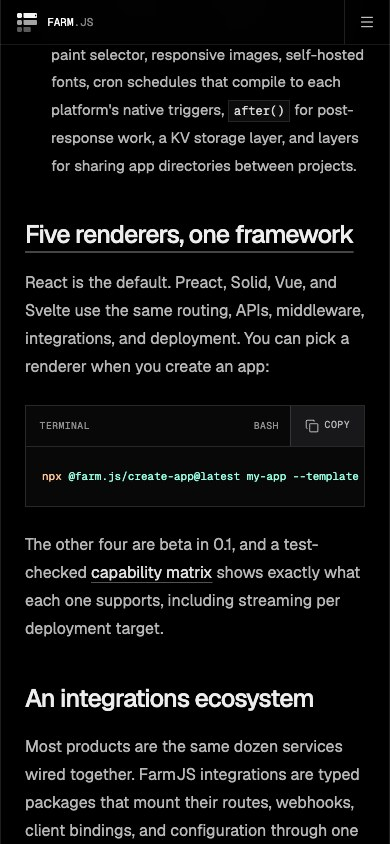
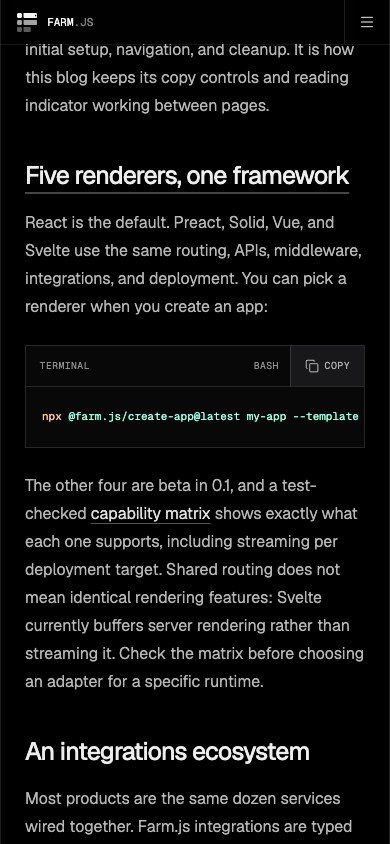
docs(blog): clarify launch guidance and lighten typography

Changed region(s): [[0.0615, 0.0308, 0.9538, 0.5237], [0.0615, 0.5237, 0.9231, 1.0]]

diff --git a/tests/e2e-production-sites/docs.production.spec.ts b/tests/e2e-production-sites/docs.production.spec.ts
@@ -85,7 +85,7 @@ test("blog connects the index, article, contents, and Markdown mirror", async ({
   await page.locator(".blog-featured").click();
   await expect(page).toHaveURL(/\/blog\/farm-0-1$/);
   await expect(page.getByRole("heading", { level: 1 })).toHaveCount(1);
-  await expect(page.getByRole("heading", { level: 1 })).toContainText("FarmJS v0.1.0");
+  await expect(page.getByRole("heading", { level: 1 })).toContainText("Farm.js v0.1.0");
   await expect(page.getByRole("heading", { level: 1 })).toHaveCSS("font-size", "36px");
   await expect(page.locator(".blog-post-heading h1 br")).toHaveCount(0);
   await expect(page.locator(".blog-post-heading h1")).toHaveCSS("text-wrap", "balance");
@@ -143,15 +143,64 @@ test("blog connects the index, article, contents, and Markdown mirror", async ({
   await expect(page.getByText("This post is a", { exact: false })).toHaveCount(0);
   const markdown = await page.request.get("/blog/farm-0-1.md");
   expect(markdown.ok()).toBe(true);
-  expect(await markdown.text()).toContain("# FarmJS v0.1.0: Stable, Integrated, and Agent-Native");
+  expect(await markdown.text()).toContain("# Farm.js v0.1.0: Stable, Integrated, and Agent-Native");
   expect(await markdown.text()).toContain("## Built with Farm: Viby");
   await page.goto("/blog/farm-0-1.md");
   await expect(page).toHaveURL(/\/blog\/farm-0-1\.md$/);
-  await expect(page.locator("body")).toContainText("# FarmJS v0.1.0");
+  await expect(page.locator("body")).toContainText("# Farm.js v0.1.0");
   await page.goBack();
   await page.getByRole("link", { name: "All posts" }).click();
   await expect(page).toHaveURL(/\/blog$/);
   expect(browserErrors).toEqual([]);
+});
+
+test("blog uses Farm.js branding, lighter reading weights, and complete launch guidance", async ({
+  page,
+}) => {
+  await page.goto("/blog");
+  await expect(page.locator(".blog-featured h3")).toContainText("Farm.js v0.1.0");
+  await expect(page.locator("body")).not.toContainText("FarmJS");
+  await page.locator(".blog-read-link").click();
+  await expect(page).toHaveTitle("Farm.js v0.1.0: Stable, Integrated, and Agent-Native");
+  await expect(page.locator("body")).not.toContainText("FarmJS");
+  const prose = page.locator(".blog-prose");
+  await expect(prose).toContainText("Node.js 22.13 or newer");
+  await expect(prose).toContainText(
+    "Browser references require the experimental server-function transform",
+  );
+  await expect(prose).toContainText("It does not have to live under Farming Labs.");
+  await expect(prose).toContainText("farm upgrade --latest --dry-run");
+  await expect(prose).toContainText(
+    "removes its UI, launcher, and inspection endpoints from production output",
+  );
+  for (const width of [1440, 390]) {
+    await page.setViewportSize({ width, height: 1000 });
+    await expect(prose.locator("p").filter({ hasText: /^Farm\.js 0\.1 is out/ })).toHaveCSS(
+      "font-weight",
+      "350",
+    );
+    await expect(prose.locator("p").filter({ hasText: /^Patch releases/ })).toHaveCSS(
+      "font-weight",
+      "350",
+    );
+    await expect(prose.locator("li").first()).toHaveCSS("font-weight", "350");
+    await expect(prose.locator("h2").first()).toHaveCSS("font-weight", "450");
+    await expect(prose.locator("strong").first()).toHaveCSS("font-weight", "500");
+    await expect(prose.locator("pre").first()).toHaveCSS("font-weight", "400");
+    await expect(prose).toHaveCSS("font-size", width === 1440 ? "16px" : "15px");
+  }
+  for (const path of ["/blog.md", "/blog/farm-0-1.md"]) {
+    const response = await page.request.get(path);
+    expect(response.ok()).toBe(true);
+    const markdown = await response.text();
+    expect(markdown).toContain("Farm.js v0.1.0");
+    expect(markdown).not.toContain("FarmJS");
+  }
+  const source = await readFile("docs/src/app/blog/farm-0-1/page.md", "utf8");
+  const guides = new Set(
+    [...source.matchAll(/https:\/\/farmjs\.dev(\/docs\/[^)#\s]+)/g)].map((match) => match[1]),
+  );
+  for (const path of guides) await access(`docs/src/app${path}/page.md`);
 });
 
 test("blog enhancements survive client navigation, re-entry, and back/forward without reloads", async ({
@@ -392,6 +441,7 @@ test("article sidebar tracks native navigation, reading position, pointer, and k
 }) => {
   await page.emulateMedia({ reducedMotion: "reduce" });
   await page.goto("/blog/farm-0-1");
+  await expect(page.locator("html")).toHaveCSS("scroll-behavior", "auto");
   const nav = page.locator(".blog-contents-links").first();
   const first = nav.getByRole("link", { name: "What stable means", exact: true });
   const integrations = nav.getByRole("link", { name: "Integrations", exact: true });

diff --git a/docs/src/app/blog/blog.css b/docs/src/app/blog/blog.css
@@ -654,6 +654,7 @@
 .blog-prose {
   color: var(--blog-copy);
   font-size: 16px;
+  font-weight: 350;
   line-height: 1.85;
   overflow-wrap: break-word;
 }
@@ -674,11 +675,14 @@
 .blog-prose pre {
   margin: 0 0 24px;
 }
+.blog-prose p {
+  font-weight: inherit;
+}
 .blog-prose h2 {
   color: #ededed;
   margin: 52px 0 18px;
   font-size: 27px;
-  font-weight: 500;
+  font-weight: 450;
   line-height: 1.25;
   letter-spacing: -0.035em;
 }
@@ -686,6 +690,7 @@
   color: #ededed;
   margin: 32px 0 14px;
   font-size: 20px;
+  font-weight: 450;
   line-height: 1.35;
   letter-spacing: -0.02em;
 }
@@ -710,7 +715,7 @@
 }
 .blog-prose strong {
   color: #e0e0e0;
-  font-weight: 550;
+  font-weight: 500;
 }
 .blog-prose a {
   color: #e0e0e0;
@@ -739,6 +744,7 @@
   color: #d8d8d8;
   font-family: var(--font-geist-mono), monospace;
   font-size: 12px;
+  font-weight: 400;
   line-height: 1.8;
 }
 .blog-code-block {
@@ -1058,6 +1064,10 @@
   }
 }
 @media (prefers-reduced-motion: reduce) {
+  /* Fragment navigation scrolls the document, not the article container. */
+  html:has(.farm-blog) {
+    scroll-behavior: auto !important;
+  }
   .farm-blog *,
   .farm-blog *::before,
   .farm-blog *::after {

diff --git a/docs/src/app/blog/farm-0-1/layout.tsx b/docs/src/app/blog/farm-0-1/layout.tsx
@@ -37,7 +37,7 @@ export default function LaunchPostLayout({ children }: LayoutProps) {
             <time dateTime={launchPost.dateTime}>{launchPost.date}</time>
           </div>
           <h1>
-            FarmJS v0.1.0: Stable, Integrated, <span>and Agent-Native.</span>
+            Farm.js v0.1.0: Stable, Integrated, <span>and Agent-Native.</span>
           </h1>
           <p>{launchPost.description}</p>
           <div className="blog-post-byline">

diff --git a/docs/src/app/blog/page.tsx b/docs/src/app/blog/page.tsx
@@ -40,7 +40,7 @@ export default function BlogPage() {
             </div>
             <h3 id="featured-title">
               <a href={launchPost.href}>
-                FarmJS v0.1.0: <span>Stable, Integrated, and Agent-Native.</span>
+                Farm.js v0.1.0: <span>Stable, Integrated, and Agent-Native.</span>
               </a>
             </h3>
             <p>{launchPost.description}</p>

diff --git a/docs/src/lib/blog.ts b/docs/src/lib/blog.ts
@@ -1,6 +1,6 @@
 export const launchPost = {
   href: "/blog/farm-0-1",
-  title: "FarmJS v0.1.0: Stable, Integrated, and Agent-Native",
+  title: "Farm.js v0.1.0: Stable, Integrated, and Agent-Native",
   description: "Our first stable release. Built for apps and agents.",
   author: "KinfeMichael Tariku",
   authorAvatar: "https://avatars.githubusercontent.com/u/65047246?v=4&size=96",

diff --git a/docs/src/app/blog/farm-0-1/page.md b/docs/src/app/blog/farm-0-1/page.md
@@ -1,27 +1,29 @@
 ---
-title: "FarmJS v0.1.0: Stable, Integrated, and Agent-Native"
+title: "Farm.js v0.1.0: Stable, Integrated, and Agent-Native"
 description: "Our first stable release. Built for apps and agents."
 ---
 
-# FarmJS v0.1.0: Stable, Integrated, and Agent-Native
+# Farm.js v0.1.0: Stable, Integrated, and Agent-Native
 
 KinfeMichael Tariku · Sep 2026
 
-FarmJS 0.1 is out. It is the first release with a compatibility promise, and the first one I am comfortable calling stable.
+Farm.js 0.1 is out. It is the first release with a compatibility promise, and the first one I am comfortable calling stable.
 
-It is also a good moment to show everything that landed during the betas, because FarmJS is a lot more than a router now. There is a DevTools workspace, an ecosystem of plugins and product integrations, five renderers, a CLI that explains and repairs your app, and apps that work for the agents reading and calling them.
+It is also a good moment to show everything that landed during the betas, because Farm.js is a lot more than a router now. There is a DevTools workspace, an ecosystem of plugins and product integrations, five renderers, a CLI that explains and repairs your app, and apps that work for the agents reading and calling them.
 
 <span id="what-stable-means" className="blog-heading-anchor" />
 
 ## What stable means
 
-Patch releases (`0.1.1`, `0.1.2`) fix bugs. They do not break stable APIs, configuration, generated route types, or production output.
+Patch releases (`0.1.1`, `0.1.2`) fix bugs. They do not break stable APIs, configuration, generated route types, or production output. Security fixes can tighten previously unsafe behavior; those changes are called out in the release notes.
 
 A minor release (`0.2.0`) can change a stable API, but only after that API was deprecated in an earlier minor release, kept working, and documented with a migration path. Experimental features stay opt-in, can change in any release, and cost nothing when they are off.
 
 - **Stable:** core, the CLI, the app generator, DevTools, the plugin API, and the first-party integrations. They release together at the same version.
-- **Beta:** the Preact, Solid, Vue, and Svelte renderers, and most plugins. Tested and supported, but their APIs can still move.
-- **Experimental:** React Server Components, Partial Prerendering, isolated hydration, the React compiler, WebMCP, federation, and WebAssembly components.
+- **Beta:** the Preact, Solid, Vue, and Svelte renderers, the separate `@farm.js/react` compiler/runtime package, and most plugins. Tested and supported, but their APIs can still move. The default React renderer is built into core and is stable.
+- **Experimental:** React Server Components, Server Actions under RSC, Partial Prerendering, isolated hydration, the React compiler, WebMCP, federation, and WebAssembly components.
+
+Stable integrations promise compatibility for their Farm.js factory, configuration, routes, and typed callers. The external service still follows its own SDK and API contract. Keep core, the CLI, DevTools, and the integrations on matching shared-release versions; independently versioned renderer and plugin packages can remain in beta.
 
 The full breakdown, including which deployment targets are verified and how, is on the [Stability and Support](https://farmjs.dev/docs/stability) page.
 
@@ -33,8 +35,11 @@ The parts every product needs, typed end to end:
 
 - **App-directory routing** with generated route types, layouts, route groups, and loading and error boundaries.
 - **Typed APIs and data.** API routes produce a typed client (`apiClient.hello.get()`), and server queries give you deduplicated, prefetchable, invalidatable reads defined once on the server.
+- **Server functions and mutations.** `createServerFn` gives shared server operations input and output validation. `createServerQuery` adds structured cache keys, stale-while-revalidate, and invalidation for reads. Browser references require the experimental server-function transform; without it, keep the handler on the server and call a typed API route. The [server-query guide](https://farmjs.dev/docs/server-queries) explains that boundary.
 - **Rendering control.** Streaming SSR, static generation, ISR-style revalidation, shared cache helpers with tag and path invalidation, and per-route runtime, region, and duration hints.
 - **Built-ins you would otherwise assemble:** internationalization with typed ICU messages and RTL, light and dark themes with a pre-paint selector, responsive images, self-hosted fonts, cron schedules that compile to each platform's native triggers, `after()` for post-response work, a KV storage layer, and layers for sharing app directories between projects.
+
+Small browser enhancements do not need a hydrated component tree. An optional [`src/client.ts`](https://farmjs.dev/docs/project-structure#html-first-client-lifecycle) connects server-rendered HTML to Farm.js's browser lifecycle, including initial setup, navigation, and cleanup. It is how this blog keeps its copy controls and reading indicator working between pages.
 
 <span id="five-renderers-one-framework" className="blog-heading-anchor" />
 
@@ -46,13 +51,13 @@ React is the default. Preact, Solid, Vue, and Svelte use the same routing, APIs,
 npx @farm.js/create-app@latest my-app --template basic --renderer vue
 ```
 
-The other four are beta in 0.1, and a test-checked [capability matrix](https://farmjs.dev/docs/renderers) shows exactly what each one supports, including streaming per deployment target.
+The other four are beta in 0.1, and a test-checked [capability matrix](https://farmjs.dev/docs/renderers) shows exactly what each one supports, including streaming per deployment target. Shared routing does not mean identical rendering features: Svelte currently buffers server rendering rather than streaming it. Check the matrix before choosing an adapter for a specific runtime.
 
 <span id="an-integrations-ecosystem" className="blog-heading-anchor" />
 
 ## An integrations ecosystem
 
-Most products are the same dozen services wired together. FarmJS integrations are typed packages that mount their routes, webhooks, client bindings, and configuration through one model, and `farm add integration` scaffolds them:
+Most products are the same dozen services wired together. Farm.js integrations are typed packages that mount their routes, webhooks, client bindings, and configuration through one model, and `farm add integration` scaffolds them:
 
 ```bash
 farm add integration stripe
@@ -70,11 +75,15 @@ What is available in 0.1:
 
 Integrations can also scaffold working screens through a shadcn-style UI registry, and schema-backed integrations can share your relational models through [@farming-labs/orm](https://orm.farming-labs.dev).
 
+This is not a closed catalog. Use [`defineIntegration`](https://farmjs.dev/docs/integrations/custom) to build an app-local adapter or publish a community package with the same typed routes, configuration validation, and lifecycle hooks. It does not have to live under Farming Labs. Adapters such as Stripe can also wrap an SDK instance your app already owns. Keep that instance and its credentials in server-only modules.
+
 <span id="a-plugin-ecosystem-starting-with-devtools" className="blog-heading-anchor" />
 
 ## A plugin ecosystem, starting with DevTools
 
-**DevTools** ships in every new app. Open it from the button in the corner or with `Cmd + Shift + .` to browse your routes and their runtime settings, inspect configured integrations, read runtime diagnostics, and compare your source with the JavaScript Vite actually served.
+**DevTools** ships in every new app. Open it from the button in the corner or with `Cmd + Shift + .` on macOS (`Ctrl + Shift + .` on Windows and Linux) to browse your routes and their runtime settings, inspect configured integrations, read runtime diagnostics, and compare your source with the JavaScript Vite actually served.
+
+It is development-only: the plugin removes its UI, launcher, and inspection endpoints from production output. Snapshots show environment key names, not their values. Source code is still sensitive, so keep development servers on a trusted network. The [DevTools guide](https://farmjs.dev/docs/plugins/devtools) covers those boundaries.
 
 ```ts
 import { defineConfig } from "@farm.js/core";
@@ -98,6 +107,8 @@ The rest of the official plugins:
 - **Sentry** and **OpenTelemetry** report errors and traces with Farm's route and event context.
 - **StyleX**, **MSW**, **WebAssembly**, **federation**, and **WebMCP** cover styling, mocking, Wasm, independently deployed modules, and browser agent tools.
 
+Plugins change how the framework builds, renders, or handles requests; integrations connect a service to your app. Both have public authoring APIs. The [plugin authoring guide](https://farmjs.dev/docs/plugins/create-plugin) is the starting point for your own build tooling, diagnostics, or runtime policies.
+
 <span id="a-cli-that-explains-your-app" className="blog-heading-anchor" />
 
 ## A CLI that explains your app
@@ -112,7 +123,7 @@ The rest of the official plugins:
 
 ## Built for agents too
 
-More of the traffic hitting a product is an agent reading a page, calling an API, or acting on someone's behalf. FarmJS apps handle that by default.
+More of the traffic hitting a product is an agent reading a page, calling an API, or acting on someone's behalf. Farm.js apps handle that by default.
 
 **Every page has a Markdown version,** with no configuration. Ask with a `.md` suffix or an `Accept` header:
 
@@ -144,13 +155,13 @@ For long-running, stateful agents, Cloudflare Agents and Eve run behind the same
 
 ## Built with Farm: Viby
 
-We are also building with this foundation ourselves. [Viby](https://viby-app.farming-labs.dev) is a conversation-first software builder built on FarmJS and powered by [Viby SDK](https://viby.farming-labs.dev). Start with a prompt, reference files, or an existing repository, then inspect the generated source, iterate in the conversation, and preview the result in an isolated sandbox.
+We are also building with this foundation ourselves. [Viby](https://viby-app.farming-labs.dev) is a conversation-first software builder built on Farm.js and powered by [Viby SDK](https://viby.farming-labs.dev). Start with a prompt, reference files, or an existing repository, then inspect the generated source, iterate in the conversation, and preview the result in an isolated sandbox.
 
 **Viby SDK is the infrastructure behind the experience.** `@viby/sdk` is an open-source, framework-agnostic TypeScript SDK for building persistent, skill-guided vibe coding products. It handles durable chats, generation attempts and events, immutable source versions, workspace tools, and optional sandbox previews. Your application owns its interface, authentication, model credentials, and infrastructure.
 
-**The Viby app shows how those pieces come together.** The demo itself runs on FarmJS, and its generated projects start from a FarmJS baseline. Farm and design-engineering skills guide the generation; source versions let you keep iterating from the last result. You can inspect and edit files, preview the app, download the source, or use the repository and deployment integrations.
+**The Viby app shows how those pieces come together.** The demo itself runs on Farm.js, and its generated projects start from a Farm.js baseline. Farm and design-engineering skills guide the generation; source versions let you keep iterating from the last result. You can inspect and edit files, preview the app, download the source, or use the repository and deployment integrations.
 
-The SDK is not tied to FarmJS. Farm is one supported framework, and the app is a concrete example of the kind of product you can build on top of it: your product experience, with the generation and workspace infrastructure supplied by Viby.
+The SDK is not tied to Farm.js. Farm is one supported framework, and the app is a concrete example of the kind of product you can build on top of it: your product experience, with the generation and workspace infrastructure supplied by Viby.
 
 [Explore the SDK](https://viby.farming-labs.dev) · [Try the Viby demo](https://viby-app.farming-labs.dev) · [Read the source](https://github.com/farming-labs/viby-sdk)
 
@@ -158,7 +169,9 @@ The SDK is not tied to FarmJS. Farm is one supported framework, and the app is a
 
 ## Deploy where you already are
 
-`deploy.target` maps to a tested Nitro output: `node` and `vercel` are stable, `cloudflare` and `netlify` are beta, and any other Nitro preset passes through. `farm deploy` wraps the platform CLIs for Vercel, Cloudflare, and Netlify.
+`deploy.target` maps to a tested Nitro output: `node` and `vercel` are stable, `cloudflare` and `netlify` are beta, and any other Nitro preset passes through on a best-effort basis. Pass-through is not a claim that Farm.js tests every Nitro runtime. `farm deploy` wraps the platform CLIs for Vercel, Cloudflare, and Netlify.
+
+Run a production build for the target you will actually deploy, not only the development server. The [deployment guide](https://farmjs.dev/docs/deployment) covers target configuration and output. Use cron for scheduled HTTP work, `after()` for short post-response tasks, and a [jobs integration](https://farmjs.dev/docs/integrations/jobs) when work needs durable retries and execution history.
 
 <span id="how-we-earned-stable" className="blog-heading-anchor" />
 
@@ -185,12 +198,18 @@ The rest was unglamorous and necessary: malformed request bodies that returned 5
 
 ## Try it
 
+Use **Node.js 22.13 or newer** for development and Node deployments. The initializer installs the starter dependencies; then start the development server:
+
 ```bash
 npx @farm.js/create-app@latest my-app
+cd my-app
+npm run dev
 ```
 
-If you prefer pnpm, `pnpm create @farm.js/app my-app` works too. pnpm 11 and newer hold back versions published in the last day, so on release day npx is the quickest way to get 0.1.
+If you prefer pnpm, `pnpm create @farm.js/app my-app` works too; use `pnpm dev` inside the generated app. Use `--template basic --typescript` for the minimal starter, or `--list-templates` to find an auth, billing, jobs, or AI starter. Provider starters include the integration wiring and an `.env.example`; you supply the provider credentials.
 
-Coming from a beta, `farm upgrade --latest` and the [upgrade guide](https://farmjs.dev/docs/upgrading) cover the behavior changes and the deprecated APIs to move off before 0.2.
+If pnpm's `minimumReleaseAge` policy holds back a just-published release, the [upgrade guide](https://farmjs.dev/docs/upgrading) explains the scoped `@farm.js/*` exclusion. Keep the protection for unrelated dependencies.
 
-If something breaks, `farm doctor` output and an issue on [GitHub](https://github.com/farming-labs/farm.js/issues) is the fastest way to reach me. Thanks to everyone who ran the betas and told me what was wrong.
+Coming from a beta, preview the package changes with `farm upgrade --latest --dry-run`, then run `farm upgrade --latest`. Review the [upgrade guide](https://farmjs.dev/docs/upgrading), run your app's checks and production build, and replace deprecated APIs before a later minor release removes them. `latest` does not turn every independently versioned plugin or renderer into a stable package.
+
+If something breaks, open an issue on [GitHub](https://github.com/farming-labs/farm.js/issues) with `farm doctor` output, the renderer, deployment target, and a small reproduction. Remove credentials and private application data before sharing logs. Thanks to everyone who ran the betas and told me what was wrong.

diff --git a/docs/src/app/blog/page.md b/docs/src/app/blog/page.md
@@ -7,6 +7,6 @@ description: "Releases, engineering notes, and ideas from the people building Fa
 
 Releases, engineering notes, and ideas.
 
-## [FarmJS v0.1.0: Stable, Integrated, and Agent-Native](/blog/farm-0-1)
+## [Farm.js v0.1.0: Stable, Integrated, and Agent-Native](/blog/farm-0-1)
 
-FarmJS 0.1 is the first release with a compatibility promise. A tour of what shipped: DevTools, the plugin and integration ecosystems, five renderers, a CLI that explains your app, and apps built for agents.
+Farm.js 0.1 is the first release with a compatibility promise. A tour of what shipped: DevTools, the plugin and integration ecosystems, five renderers, a CLI that explains your app, and apps built for agents.
